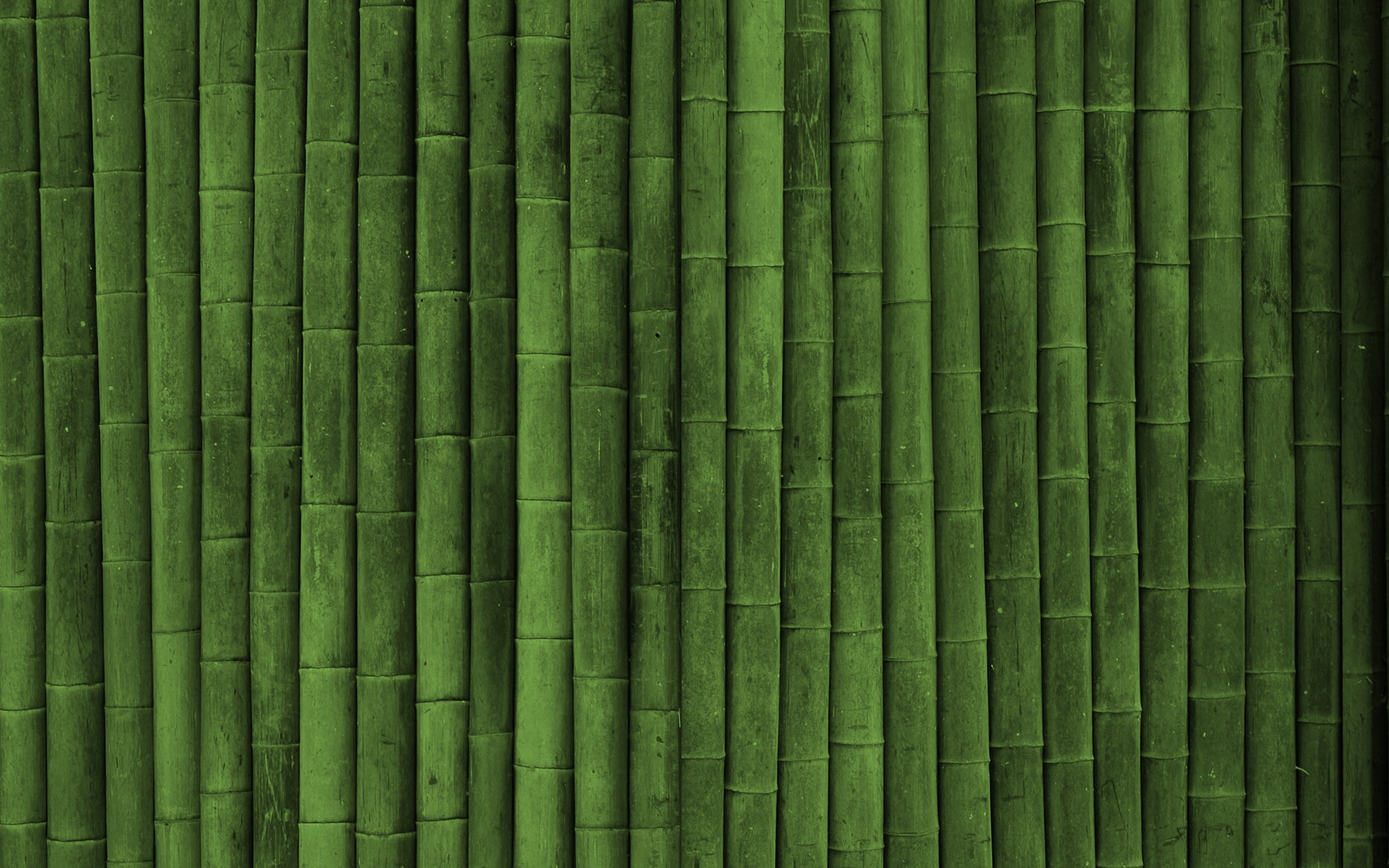
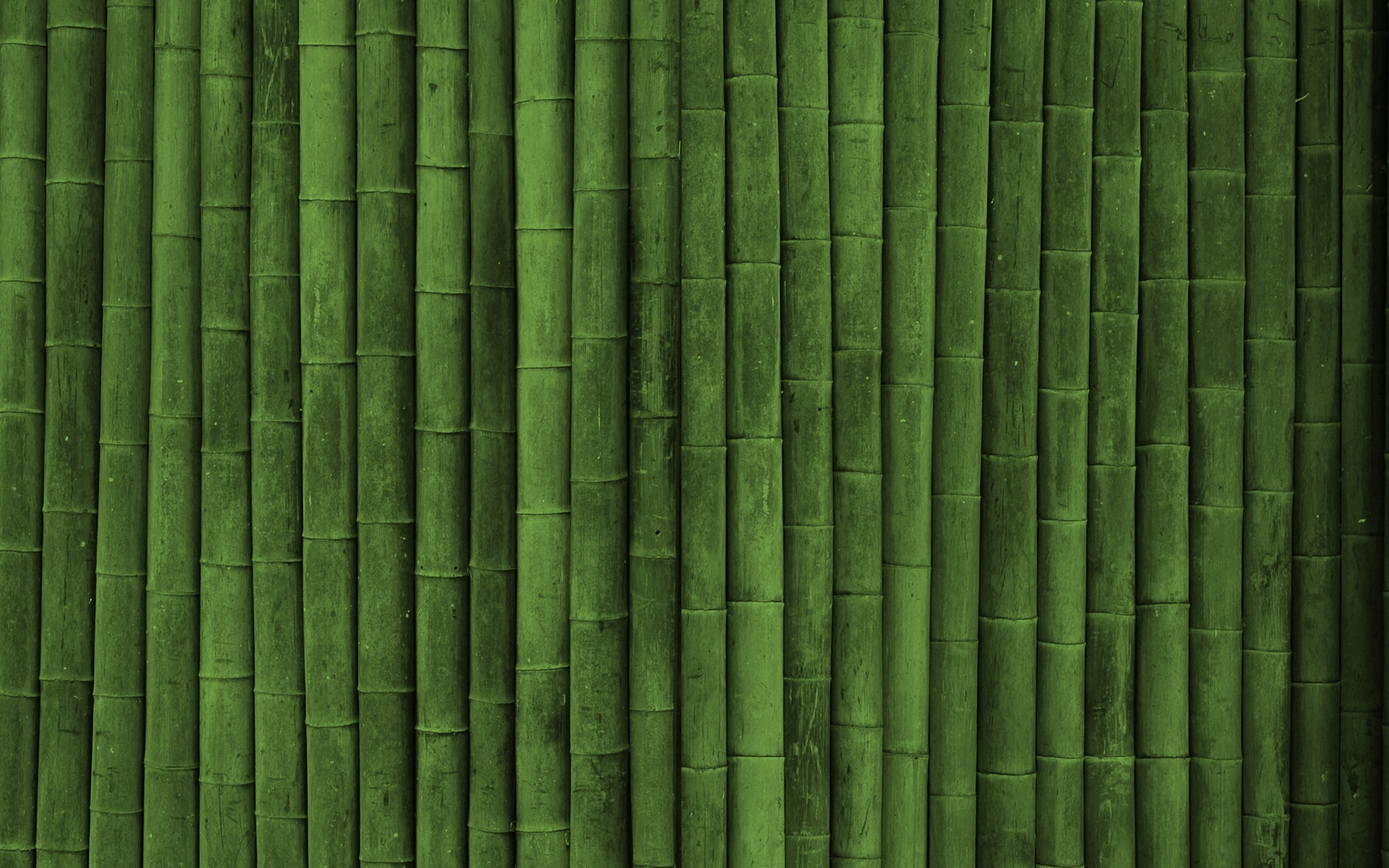
95% compression looking damn shitty

diff --git a/src/executables/Test_Compression/testCMPRSSN.cpp b/src/executables/Test_Compression/testCMPRSSN.cpp
@@ -61,6 +61,9 @@ GLuint cube = TextureTools::loadTexture(RESOURCES_PATH "/jpg/cubeTexture2.jpg");
 GLuint bambus = TextureTools::loadTexture(RESOURCES_PATH "/jpg/bambus.jpg");
 GLuint lena = TextureTools::loadTexture(RESOURCES_PATH "/jpg/lenna.png");
 
+int precision = 7;
+int prec = glm::pow(10,precision);
+
 GLuint texYCbCrHandle;
 GLuint texAHandle;
 GLuint texCbCrHandle;
@@ -170,7 +173,7 @@ void readCharFromFile(string fileName, char* array){
 }
 
 void doRLE2(float *array, vector<float>* outValue, vector<int>* outCounts){
-	float colorOld = array[0]*100000000;
+	float colorOld = array[0]*prec;
 	float color;
 	int count = 1;
 
@@ -180,7 +183,7 @@ void doRLE2(float *array, vector<float>* outValue, vector<int>* outCounts){
 
 	for(int i = 1; i < (tWidth * tHeight) ; i++){
 
-		color = array[i]*100000000;
+		color = array[i]*prec;
 
 		if(colorOld != color){
 
@@ -246,7 +249,7 @@ void doRLEDecode3(float* array){
 	for(i = 0 ; i < length ; i++){
 		for(j = 0; j < counts[i]; j ++){
 			float test = values[i];
-			float test2 = test/100000000;
+			float test2 = test/prec;
 //			cout<<test2<<endl;
 			array[k+j] = test2;
 		}
@@ -625,9 +628,9 @@ int main(int argc, char *argv[]) {
 
         pass2																			//show on a plane
         ->clear(1, 1, 1, 0)
-        ->texture("tex2", pass->get("fragColor"))
+//        ->texture("tex2", pass->get("fragColor"))
 //        ->texture("tex2", tex1Handle)
-//        ->texture("tex2", texFinalHandle)
+        ->texture("tex2", texFinalHandle)
         ->run();
     });
 }
